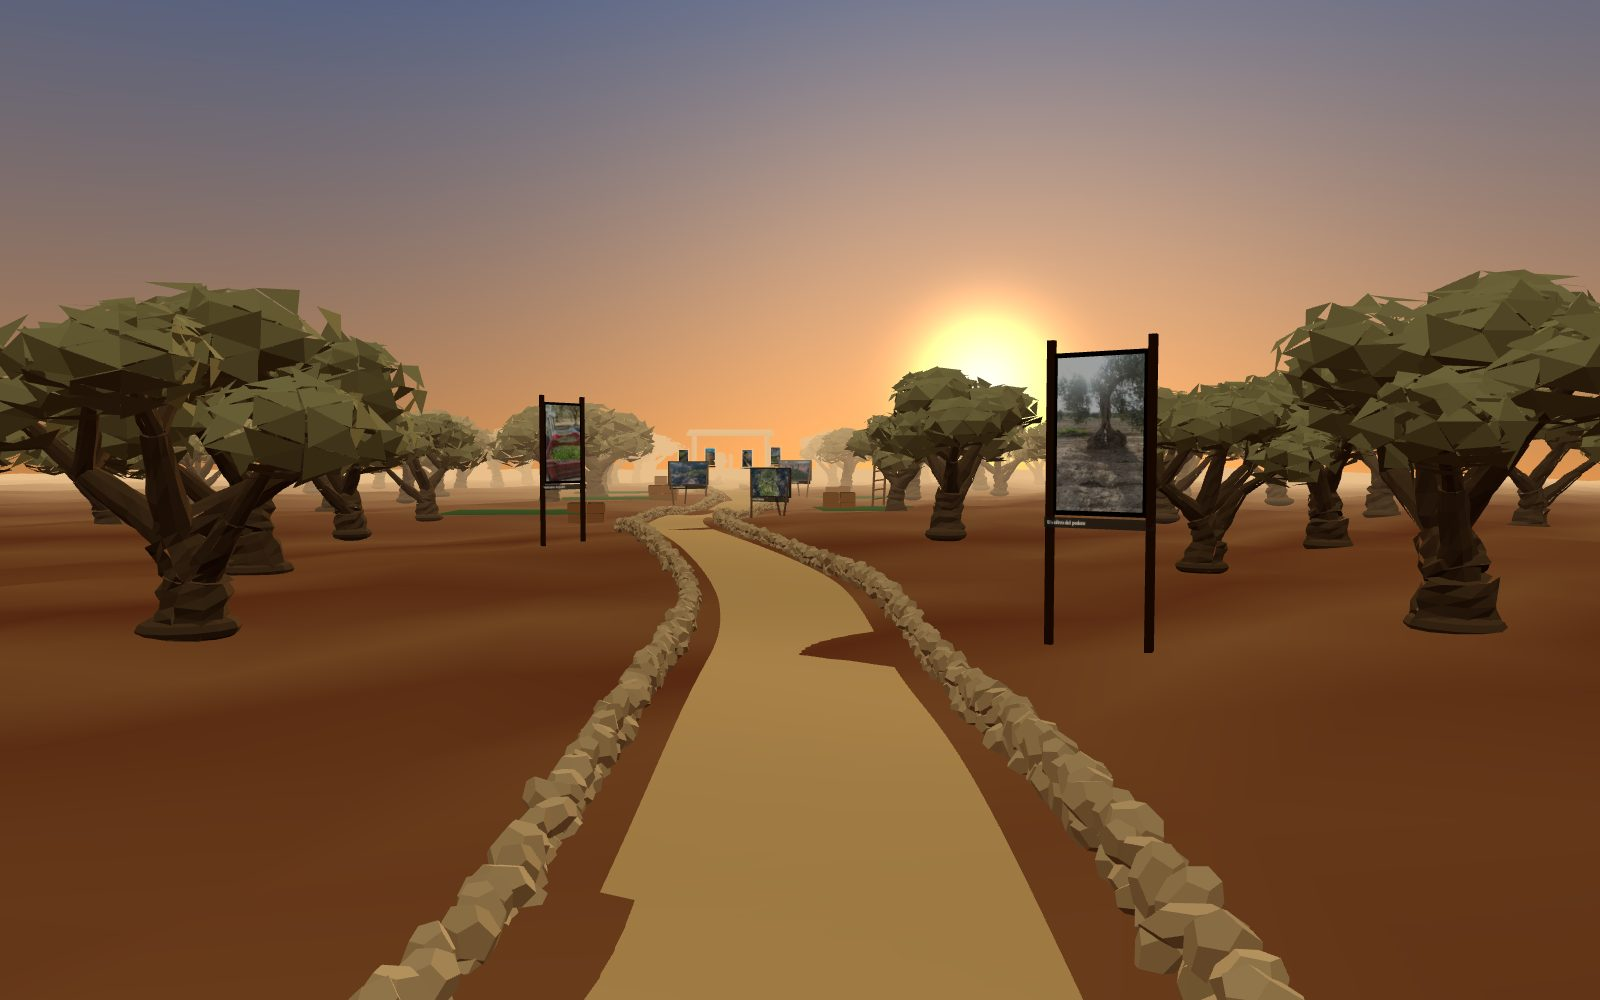
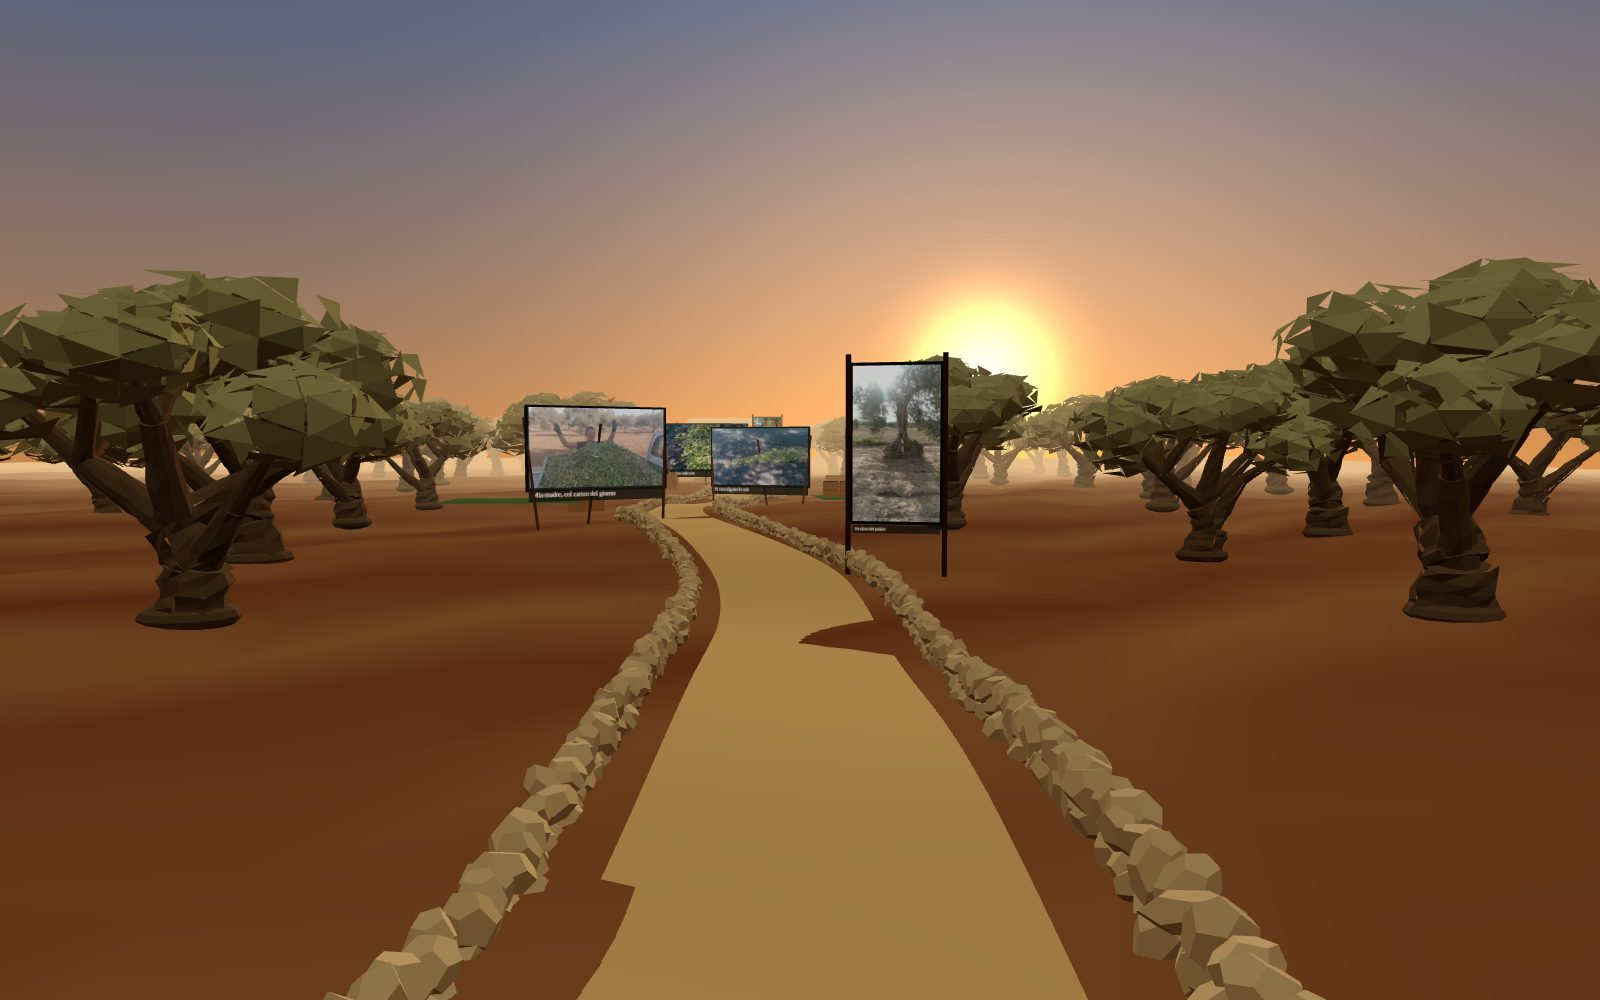
Uliveto: video grandi accanto al testo che raccontano; testi riscritti
Ogni video sta qualche metro più avanti della tappa a cui è legato, dalla parte libera dal pannello,
alto quanto una persona: si guarda passando, senza clic. Una tappa, un video; i due della spremitura
affiancati. Sul telefono i quadri stanno più al centro, sopra il pannello.
Testi riscritti nelle tre lingue (la terra, la famiglia, la regola, il metodo in quattro passi, per chi
fa olio); i pannelli hanno occhiello, titolo grande con un filo d'oro e il testo.

Claude-Session: https://claude.ai/code/session_01A9JQzMorsUGx96Wd9k9sii

diff --git a/components/Uliveto.tsx b/components/Uliveto.tsx
@@ -16,7 +16,7 @@ import type { Luogo, Media } from "@/content/olio";
  * davanti e si aprono a tutto schermo con un clic.
  */
 
-export type Quadro = { media: Media; luogo: Luogo; didascalia: string };
+export type Quadro = { media: Media; luogo: Luogo; didascalia: string; /** indice della tappa del testo a cui è legato */ tappa: number };
 /** Dove sta un quadro: la base, il punto verso cui guarda, l'altezza del centro, l'altezza massima, il sostegno. */
 type Posto = { pos: THREE.Vector3; verso: THREE.Vector3; y: number; alto: number; sostegno: "pali" | "cavalletto" };
 
@@ -31,6 +31,8 @@ type Props = {
   onApri: (i: number) => void;
   /** dopo i primi fotogrammi: la scena è pronta, il velo può sfumare */
   onPronta: () => void;
+  /** da che parte sta il testo di ogni tappa: i quadri stanno dall'altra */
+  lati: ("sx" | "dx" | "centro")[];
 };
 
 /** Il cammino, da dove si entra al frantoio: sale e scende appena, piega a destra e a sinistra. */
@@ -58,38 +60,36 @@ function destra(p: number, out = new THREE.Vector3()) {
   return out.set(-t.z, 0, t.x).normalize();
 }
 
-/** I tratti del cammino (in parametro della curva) dei primi due luoghi. */
-const TRATTI: Record<"alberi" | "raccolta", [number, number]> = { alberi: [0.05, 0.33], raccolta: [0.37, 0.62] };
-
 /**
- * Dispone i quadri: in ogni luogo si distribuiscono lungo il suo tratto alternando i lati;
- * al frantoio in arco attorno alla macina, rivolti verso chi arriva.
+ * Dispone i quadri: ognuno qualche metro più avanti della tappa del testo a cui è legato, dalla parte
+ * libera dal pannello; quelli dell'ultima tappa in arco dietro la macina, rivolti verso chi arriva.
  */
-function disponi(quadri: Quadro[], stretto: boolean): Posto[] {
-  const conta: Record<Luogo, number> = { alberi: 0, raccolta: 0, frantoio: 0 };
-  const totale: Record<Luogo, number> = { alberi: 0, raccolta: 0, frantoio: 0 };
-  quadri.forEach((q) => totale[q.luogo]++);
+function disponi(quadri: Quadro[], stretto: boolean, lati: ("sx" | "dx" | "centro")[]): Posto[] {
+  const N = lati.length;
   const fine = sulCammino(1), avanti = CAMMINO.getTangentAt(1).setY(0).normalize(), lato = destra(1);
   const arrivo = sulCammino(FINE_CAMERA);
+  const inArco = quadri.filter((q) => q.tappa === N - 1).length;
+  const perTappa: Record<number, number> = {};
   return quadri.map((q) => {
-    const k = conta[q.luogo]++;
-    const n = totale[q.luogo];
-    if (q.luogo === "frantoio") {
-      // in arco dietro la macina, da sinistra a destra
-      const a = n === 1 ? 0 : -1.15 + (2.3 * k) / (n - 1);
-      const pos = fine.clone().add(avanti.clone().multiplyScalar(Math.cos(a) * 3.1)).add(lato.clone().multiplyScalar(Math.sin(a) * 3.4));
-      return { pos, verso: arrivo.clone(), y: 1.6, alto: 1.15, sostegno: "pali" };
+    const k = (perTappa[q.tappa] = (perTappa[q.tappa] ?? -1) + 1);
+    if (q.tappa === N - 1) {
+      // l'ultima tappa: in arco dietro la macina
+      const a = inArco === 1 ? 0 : -1.1 + (2.2 * k) / (inArco - 1);
+      const pos = fine.clone().add(avanti.clone().multiplyScalar(Math.cos(a) * 3.6)).add(lato.clone().multiplyScalar(Math.sin(a) * 4.0));
+      return { pos, verso: arrivo.clone(), y: 1.9, alto: inArco === 1 ? 2.4 : 1.9, sostegno: "pali" };
     }
-    const [p0, p1] = TRATTI[q.luogo];
-    const p = p0 + ((k + 0.5) / n) * (p1 - p0);
-    const parte = k % 2 ? -1 : 1;
-    const dist = q.luogo === "alberi" ? (stretto ? 1.6 : 2.4) : stretto ? 1.4 : 1.9;
-    const pos = sulCammino(p).add(destra(p).multiplyScalar(parte * dist));
-    // guarda il cammino un poco indietro: lo si vede venendo avanti
-    const verso = sulCammino(Math.max(0, p - 0.05));
-    return q.luogo === "alberi"
-      ? { pos, verso, y: 1.75, alto: 1.25, sostegno: "pali" }
-      : { pos, verso, y: 1.0, alto: 0.85, sostegno: "cavalletto" };
+    // dove ci si ferma per leggere la tappa, e qualche metro più avanti; il secondo quadro accanto al primo
+    const fermo = (q.tappa / (N - 1)) * FINE_CAMERA;
+    // il secondo sta più avanti e più in fuori: davanti a chi legge si vedono tutti e due, e alla tappa
+    // successiva è già alle spalle; sul telefono i quadri stanno più al centro, sopra il pannello
+    const p = fermo + (stretto ? 0.095 : 0.075) + k * 0.03;
+    const parte: 1 | -1 = lati[q.tappa] === "sx" ? 1 : lati[q.tappa] === "dx" ? -1 : k % 2 ? -1 : 1;
+    const pos = sulCammino(p).add(destra(p).multiplyScalar(parte * (stretto ? 0.9 + k * 1.1 : 1.6 + k * 1.45)));
+    // guarda chi arriva da dove si legge
+    const verso = sulCammino(fermo);
+    return q.luogo === "raccolta"
+      ? { pos, verso, y: 1.4, alto: 1.6, sostegno: "cavalletto" }
+      : { pos, verso, y: 1.7, alto: 2.0, sostegno: "pali" };
   });
 }
 
@@ -106,7 +106,7 @@ export default function Uliveto(props: Props) {
       <Ulivi notte={props.notte} ridotto={props.ridotto} />
       <Frantoio notte={props.notte} ridotto={props.ridotto} />
       <Raccolta notte={props.notte} />
-      {disponi(props.quadri, props.stretto).map((posto, i) => (
+      {disponi(props.quadri, props.stretto, props.lati).map((posto, i) => (
         <QuadroFraGliUlivi key={i} quadro={props.quadri[i]} posto={posto} indice={i} notte={props.notte} vuoto={props.vuoto} onApri={props.onApri} />
       ))}
       {props.notte && !props.ridotto && <Lucciole />}
@@ -686,8 +686,8 @@ function QuadroFraGliUlivi({
     document.body.style.cursor = sopra ? "pointer" : "";
   }, [sopra]);
 
-  // alto quanto il luogo consente, largo al massimo una volta e mezza tanto
-  const alto = Math.min(dove.alto, (dove.alto * 1.5) / aspetto);
+  // alto quanto il luogo consente; i video orizzontali al massimo larghi 2,8
+  const alto = Math.min(dove.alto, 2.8 / aspetto);
   const largo = alto * aspetto;
   const Y = dove.y;
   const acceso = useRef(0);
@@ -695,9 +695,9 @@ function QuadroFraGliUlivi({
     const g = gruppo.current;
     if (!g) return;
     const d = camera.position.distanceTo(posto);
-    const vicino = d < 6.5 ? 1 : 0;
+    const vicino = d < 9 ? 1 : 0;
     acceso.current += (vicino - acceso.current) * Math.min(1, dt * 2.5);
-    if (mat.current) mat.current.color.setScalar((notte ? 0.22 : 0.35) + (notte ? 0.5 : 0.65) * acceso.current);
+    if (mat.current) mat.current.color.setScalar((notte ? 0.45 : 0.6) + (notte ? 0.35 : 0.4) * acceso.current);
     const k = 1 + acceso.current * 0.04 + (sopra ? 0.04 : 0);
     g.scale.setScalar(k);
     const v = video;

diff --git a/content/olio.ts b/content/olio.ts
@@ -1,5 +1,5 @@
 /**
- * Video e foto dell'uliveto. Non seguono le tappe del testo: stanno nel luogo del loro contenuto.
+ * Video e foto dell'uliveto, ognuno accanto al testo che racconta la stessa cosa.
  *   alberi:   gli ulivi, la terra, la campagna — appesi fra gli alberi nella prima parte del cammino;
  *   raccolta: reti, pertiche, cassette, persone — accanto alle reti e alle cassette, a metà cammino;
  *   frantoio: la frangitura, la spremitura, l'olio che esce — attorno alla macina, in fondo.
@@ -10,18 +10,24 @@
  */
 export type Luogo = "alberi" | "raccolta" | "frantoio";
 export type Media = { tipo: "video" | "foto"; src: string; poster?: string } | null;
-export type VoceMedia = { luogo: Luogo; media: Media; didascalia?: { it: string; en: string; es: string } };
+/**
+ * tappa: il testo a cui il video è legato (id della tappa: storia-0…2, metodo-0…3, frantoio).
+ * Il quadro sta qualche metro più avanti di dove ci si ferma per leggere, dalla parte libera dal testo;
+ * quelli della tappa "frantoio" stanno in arco dietro la macina. luogo serve senza la scena 3D,
+ * per raggruppare i video sotto il testo.
+ */
+export type VoceMedia = { luogo: Luogo; tappa: string; media: Media; didascalia?: { it: string; en: string; es: string } };
 
 const v = (nome: string): Media => ({ tipo: "video", src: `/olio/video/${nome}.mp4`, poster: `/olio/video/${nome}.jpg` });
 
 export const mediaOlio: VoceMedia[] = [
-  { luogo: "alberi", media: v("ulivo"), didascalia: { it: "Un ulivo del podere", en: "One of the olive trees", es: "Uno de los olivos" } },
-  { luogo: "alberi", media: v("cassette-ulivi"), didascalia: { it: "Cassette piene, fra gli ulivi", en: "Full crates among the trees", es: "Cajas llenas entre los olivos" } },
-  { luogo: "raccolta", media: v("reti"), didascalia: { it: "Le olive sulle reti", en: "Olives on the nets", es: "Aceitunas en las redes" } },
-  { luogo: "raccolta", media: v("raccolta-reti"), didascalia: { it: "Si raccolgono le reti", en: "Gathering the nets", es: "Recogiendo las redes" } },
-  { luogo: "raccolta", media: v("carico"), didascalia: { it: "Mia madre, col carico del giorno", en: "My mother, with the day's load", es: "Mi madre, con la carga del día" } },
-  { luogo: "frantoio", media: v("nastro"), didascalia: { it: "Le olive verso la frangitura", en: "Olives on their way to the crusher", es: "Las aceitunas hacia la molienda" } },
-  { luogo: "frantoio", media: v("pressa"), didascalia: { it: "La pressa coi fiscoli", en: "The press and its mats", es: "La prensa con los capachos" } },
-  { luogo: "frantoio", media: v("olio"), didascalia: { it: "L'olio nuovo", en: "New oil", es: "El aceite nuevo" } },
-  { luogo: "frantoio", media: v("filtro"), didascalia: { it: "Filtrato, nel bidone", en: "Filtered, into the can", es: "Filtrado, al bidón" } },
+  { luogo: "alberi", tappa: "storia-0", media: v("ulivo"), didascalia: { it: "Un ulivo del podere", en: "One of the olive trees", es: "Uno de los olivos" } },
+  { luogo: "raccolta", tappa: "storia-1", media: v("carico"), didascalia: { it: "Mia madre, col carico del giorno", en: "My mother, with the day's load", es: "Mi madre, con la carga del día" } },
+  { luogo: "raccolta", tappa: "storia-2", media: v("raccolta-reti"), didascalia: { it: "Si raccolgono le reti", en: "Gathering the nets", es: "Recogiendo las redes" } },
+  { luogo: "raccolta", tappa: "metodo-0", media: v("reti"), didascalia: { it: "Le olive sulle reti", en: "Olives on the nets", es: "Aceitunas en las redes" } },
+  { luogo: "alberi", tappa: "metodo-1", media: v("cassette-ulivi"), didascalia: { it: "Cassette piene, fra gli ulivi", en: "Full crates among the trees", es: "Cajas llenas entre los olivos" } },
+  { luogo: "frantoio", tappa: "metodo-2", media: v("nastro"), didascalia: { it: "Le olive verso la frangitura", en: "Olives on their way to the crusher", es: "Las aceitunas hacia la molienda" } },
+  { luogo: "frantoio", tappa: "metodo-2", media: v("pressa"), didascalia: { it: "La pressa coi fiscoli", en: "The press and its mats", es: "La prensa con los capachos" } },
+  { luogo: "frantoio", tappa: "metodo-3", media: v("filtro"), didascalia: { it: "Filtrato, nel bidone", en: "Filtered, into the can", es: "Filtrado, al bidón" } },
+  { luogo: "frantoio", tappa: "frantoio", media: v("olio"), didascalia: { it: "L'olio nuovo", en: "New oil", es: "El aceite nuevo" } },
 ];

diff --git a/components/Olio.tsx b/components/Olio.tsx
@@ -5,7 +5,7 @@ import { useEffect, useMemo, useRef, useState } from "react";
 import Link from "next/link";
 import type { Dizionario, Lingua } from "@/dictionaries";
 import { lingue } from "@/dictionaries";
-import { mediaOlio, type Luogo, type Media } from "@/content/olio";
+import { mediaOlio, type Media } from "@/content/olio";
 import type { Quadro } from "./Uliveto";
 import Modulo from "./Modulo";
 import { Campagna } from "./campagna";
@@ -20,7 +20,7 @@ const Uliveto = dynamic(() => import("./Uliveto"), { ssr: false });
  * Senza WebGL restano le tappe, su fondo pieno. I suoni della campagna si accendono a mano.
  */
 
-type Tappa = { id: string; titolo?: string; testo?: string; numero?: string; lato: "sx" | "dx" | "centro" };
+type Tappa = { id: string; occhiello?: string; titolo?: string; testo?: string; lato: "sx" | "dx" | "centro" };
 
 export default function Olio({ d, lingua }: { d: Dizionario; lingua: Lingua }) {
   const o = d.olio;
@@ -37,20 +37,24 @@ export default function Olio({ d, lingua }: { d: Dizionario; lingua: Lingua }) {
   const tappe = useMemo<Tappa[]>(
     () => [
       { id: "apertura", lato: "sx" },
-      ...o.storia.map((t, i): Tappa => ({ id: `storia-${i}`, titolo: i === 0 ? o.storiaTitolo : undefined, testo: t, lato: i % 2 ? "dx" : "sx" })),
-      ...o.metodo.map((m, i): Tappa => ({ id: `metodo-${i}`, titolo: m.titolo, testo: m.testo, numero: String(i + 1).padStart(2, "0"), lato: i % 2 ? "sx" : "dx" })),
-      { id: "frantoio", titolo: o.percheTitolo, testo: o.perche, lato: "sx" },
+      ...o.storia.map((t, i): Tappa => ({ id: `storia-${i}`, occhiello: o.storiaTitolo, titolo: o.storiaTitoli[i], testo: t, lato: i % 2 ? "dx" : "sx" })),
+      ...o.metodo.map((m, i): Tappa => ({ id: `metodo-${i}`, occhiello: `${o.metodoTitolo} · ${String(i + 1).padStart(2, "0")}`, titolo: m.titolo, testo: m.testo, lato: i % 2 ? "sx" : "dx" })),
+      { id: "frantoio", occhiello: o.luoghi.frantoio, titolo: o.percheTitolo, testo: o.perche, lato: "sx" },
     ],
     [o]
   );
 
   // i quadri: nel luogo del loro contenuto, non nelle tappe
   const quadri = useMemo<Quadro[]>(
-    () => mediaOlio.map((v) => ({ media: v.media, luogo: v.luogo, didascalia: v.didascalia?.[lingua] ?? o.luoghi[v.luogo] })),
-    [o, lingua]
+    () =>
+      mediaOlio.map((v) => ({
+        media: v.media,
+        luogo: v.luogo,
+        didascalia: v.didascalia?.[lingua] ?? o.luoghi[v.luogo],
+        tappa: Math.max(0, tappe.findIndex((t) => t.id === v.tappa)),
+      })),
+    [o, lingua, tappe]
   );
-  /** Senza la scena: i quadri di un luogo stanno sotto l'ultima tappa di quel luogo. */
-  const luogoDellaTappa: Record<string, Luogo> = { "storia-2": "alberi", "metodo-1": "raccolta", frantoio: "frantoio" };
 
   // arrivando dalla stanza: la pagina scorre e la musica della stanza tace
   useEffect(() => {
@@ -134,6 +138,7 @@ export default function Olio({ d, lingua }: { d: Dizionario; lingua: Lingua }) {
             vuoto={o.videoInArrivo}
             onApri={setAperto}
             onPronta={() => setPronta(true)}
+            lati={tappe.map((t) => t.lato)}
           />
         </div>
       )}
@@ -178,11 +183,11 @@ export default function Olio({ d, lingua }: { d: Dizionario; lingua: Lingua }) {
               </div>
             ) : (
               <div className="tappa-pannello">
-                {t.numero && <p className="olio-numero">{t.numero}</p>}
-                {t.titolo && (t.numero ? <h3>{t.titolo}</h3> : <h2>{t.titolo}</h2>)}
+                {t.occhiello && <p className="tappa-occhiello">{t.occhiello}</p>}
+                {t.titolo && <h2 className="tappa-titolo">{t.titolo}</h2>}
                 {t.testo && <p className="tappa-testo">{t.testo}</p>}
                 {/* senza la scena, i video della tappa stanno qui sotto */}
-                {!con3d && luogoDellaTappa[t.id] && <QuadriPiani quadri={quadri.filter((q) => q.luogo === luogoDellaTappa[t.id])} vuoto={o.videoInArrivo} />}
+                {!con3d && <QuadriPiani quadri={quadri.filter((q) => q.tappa === tappe.indexOf(t))} vuoto={o.videoInArrivo} />}
                 {t.id === "frantoio" && (
                   <div className="olio-azioni">
                     <button className="olio-scrivimi" onClick={() => setModulo(true)}>

diff --git a/app/globals.css b/app/globals.css
@@ -478,7 +478,7 @@ html[data-tema="chiaro"] .olio{--oro:#7D6A16;--oro-tenue:rgba(125,106,22,.3);--p
 .tappa--dx{justify-content:flex-end}
 .tappa--centro{justify-content:center;align-items:flex-start;padding-top:18vh}
 .tappa-pannello{
-  pointer-events:auto;max-width:31rem;padding:1.6rem 1.8rem;border-radius:6px;
+  pointer-events:auto;max-width:33rem;padding:2rem 2.3rem 2.2rem;border-radius:6px;
   background:var(--pannello);color:var(--pannello-testo);
   backdrop-filter:blur(10px) saturate(1.1);-webkit-backdrop-filter:blur(10px) saturate(1.1);
   border:1px solid var(--oro-tenue);
@@ -494,11 +494,11 @@ html[data-tema="chiaro"] .olio{--oro:#7D6A16;--oro-tenue:rgba(125,106,22,.3);--p
 .olio-scorri{margin-top:2.2rem;font-family:var(--mono);font-size:.72rem;letter-spacing:.12em;text-transform:uppercase;color:var(--oro);display:flex;align-items:center;gap:.8rem}
 .olio-scorri::after{content:"";width:1px;height:2.2rem;background:linear-gradient(var(--oro),transparent);animation:olio-scendi 2.4s var(--curva) infinite}
 @keyframes olio-scendi{0%{transform:scaleY(0);transform-origin:top}50%{transform:scaleY(1);transform-origin:top}51%{transform-origin:bottom}100%{transform:scaleY(0);transform-origin:bottom}}
-.tappa h2{font-family:var(--mono);font-size:.78rem;font-weight:400;text-transform:uppercase;letter-spacing:.14em;color:var(--oro);margin-bottom:1rem}
-.tappa h3{font-family:var(--serif);font-weight:400;font-size:clamp(1.6rem,3vw,2.2rem);line-height:1.15;margin-bottom:.7rem}
-.olio-numero{font-family:var(--mono);font-size:.75rem;color:var(--oro);margin-bottom:.5rem}
-.tappa-testo{font-family:var(--serif);font-weight:300;font-size:clamp(1.15rem,2vw,1.45rem);line-height:1.45;color:var(--pannello-tenue)}
-.tappa--storia .tappa-testo,.tappa--frantoio .tappa-testo{color:var(--pannello-testo)}
+/* il pannello: l'occhiello in monospaziato d'oro, il titolo grande in serif, un filo d'oro, il testo */
+.tappa-occhiello{font-family:var(--mono);font-size:.72rem;text-transform:uppercase;letter-spacing:.16em;color:var(--oro);margin-bottom:.9rem}
+.tappa-titolo{font-family:var(--serif);font-weight:400;font-size:clamp(2rem,3.6vw,2.9rem);line-height:1.05;letter-spacing:-.01em;margin-bottom:1.1rem}
+.tappa-titolo::after{content:"";display:block;width:2.6rem;height:1px;background:var(--oro);margin-top:1.1rem}
+.tappa-testo{font-family:var(--serif);font-weight:300;font-size:clamp(1.15rem,1.8vw,1.38rem);line-height:1.55;color:var(--pannello-testo)}
 .olio-azioni{display:flex;flex-wrap:wrap;align-items:center;gap:1.5rem;margin-top:1.8rem;font-family:var(--mono);font-size:.8rem}
 .olio-scrivimi{
   padding:.85rem 1.6rem;border-radius:999px;
